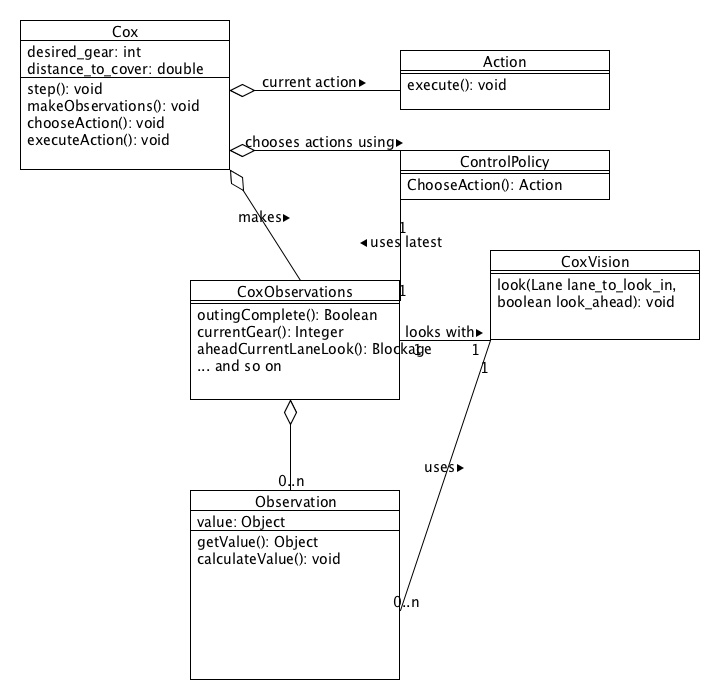
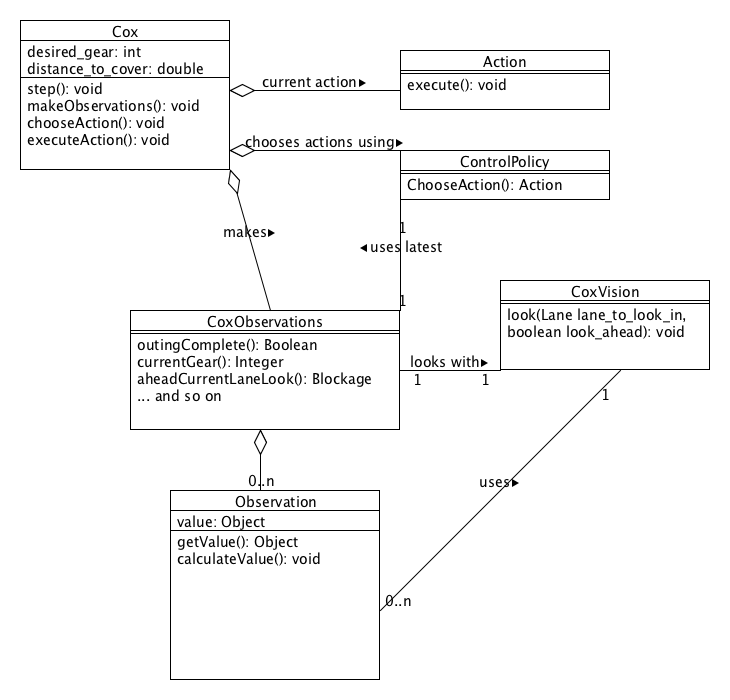
Increased size of the UML and ER diagrams to make them easier to read on printed page

diff --git a/body/SoftwareDesign.tex b/body/SoftwareDesign.tex
@@ -186,7 +186,7 @@ The \texttt{river} package contains the classes that represent the river from ou
 
 \begin{figure}
 \begin{center}
-  \includegraphics[scale=0.3]{images/riverpackage.png}
+  \includegraphics[scale=0.5]{images/riverpackage.png}
   \caption{Outline of the classes in the \texttt{river} package}
   \label{software:fig:riverUML}
 \end{center}
@@ -265,7 +265,7 @@ Figure \ref{software:fig:crashingUML} shows the classes and main methods involve
 
 \begin{figure}
 \begin{center}
-  \includegraphics[scale=0.3]{images/crashing.png}
+  \includegraphics[scale=0.5]{images/crashing.png}
   \caption{Outline of the classes involved in a crash}
   \label{software:fig:crashingUML}
 \end{center}
@@ -347,7 +347,7 @@ has access to a \texttt{BoatNavigation} instance. The main methods and instance 
 
 \begin{figure}
 \begin{center}
-  \includegraphics[scale=0.3]{images/boatpackage.png}
+  \includegraphics[scale=0.5]{images/boatpackage.png}
   \caption{Outline of the classes in the \texttt{boat} package}
   \label{software:fig:boatUML}
 \end{center}
@@ -392,7 +392,7 @@ The main aim of the \texttt{cox} package is to decide actions to execute in orde
 
 \begin{figure}
 \begin{center}
-  \includegraphics[scale=0.3]{images/coxpackageUML.png}
+  \includegraphics[scale=0.45]{images/coxpackageUML.png}
   \caption{Outline of the classes in the \texttt{cox} package}
   \label{software:fig:coxUML}
 \end{center}
@@ -457,7 +457,7 @@ time the simulation is run.
 
 \begin{figure}
 \begin{center}
-  \includegraphics[scale=0.3]{images/eer.png}
+  \includegraphics[scale=0.5]{images/eer.png}
   \caption{ER model of database}
   \label{software:fig:eer}
 \end{center}
